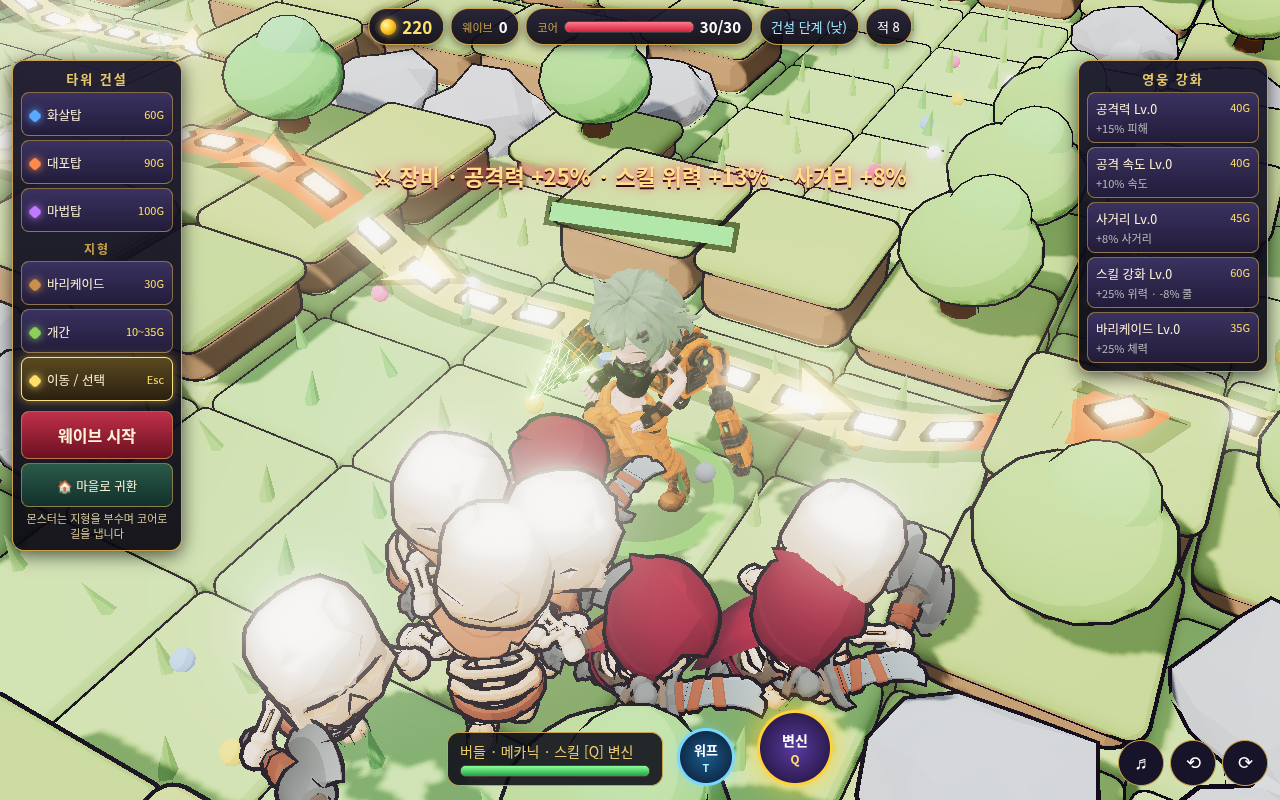
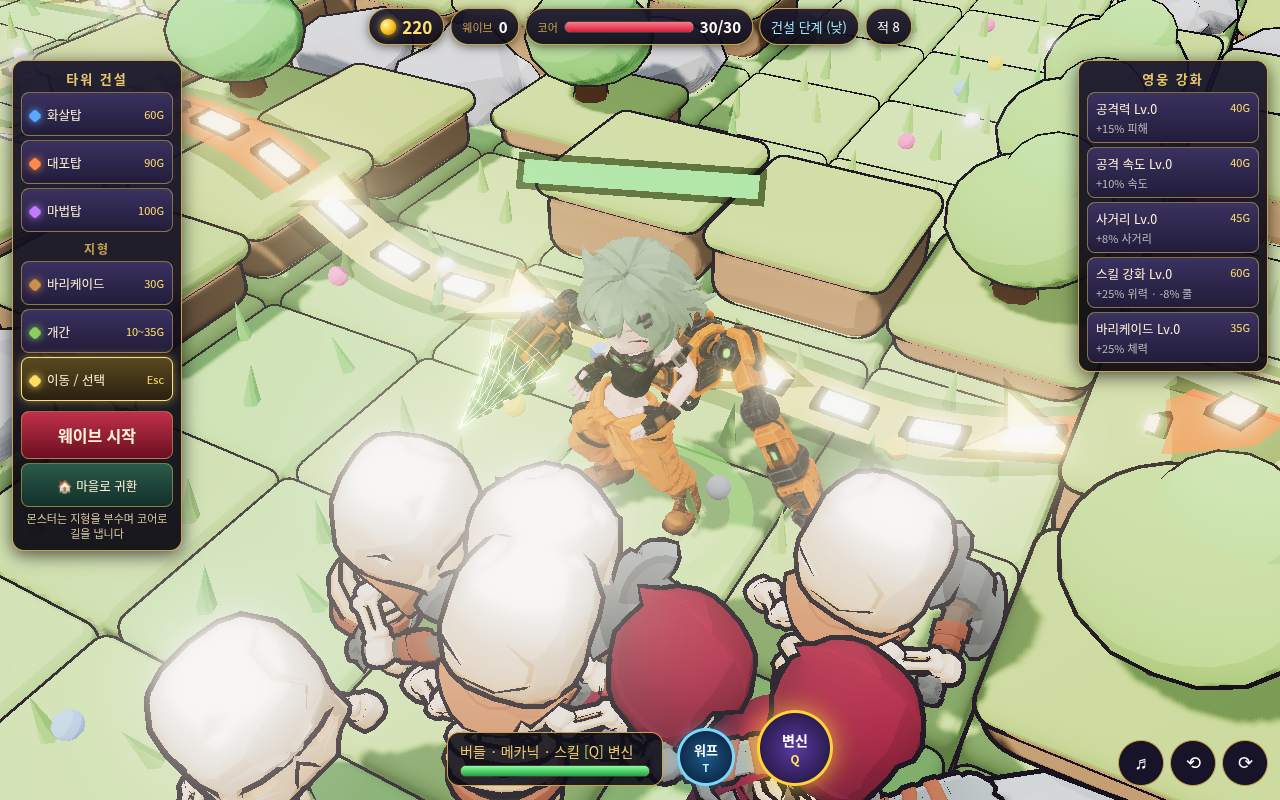
버들 스크린샷 갱신 (큰 로봇 팔): budeul_ingame(적 없이 서 있는 모습)·attack·transform·robot·shop + final_sheet(컨셉+정면/측면 시트, tests/budeul_final_sheet.py). budeul.py 51/51

diff --git a/tests/budeul_final_sheet.py b/tests/budeul_final_sheet.py
@@ -1,0 +1,21 @@
+#!/usr/bin/env python3
+"""shots/budeul/final_sheet.png = 컨셉(버들/로봇) + 콘택트 시트(정면/측면) 한 장. 먼저 budeul_sheet.py (몸, 로봇 --key mech_robot_meshy) 실행."""
+import json, os
+from PIL import Image, ImageDraw, ImageFont
+D = 'shots/budeul/sheets'; CON = os.environ.get('CONCEPT_DIR', '/workspace/mechanic3d'); COLW = 1200; PAD = 16
+F = ImageFont.truetype('/usr/share/fonts/opentype/noto/NotoSansCJK-Bold.ttc', 26); f2 = ImageFont.truetype('/usr/share/fonts/opentype/noto/NotoSansCJK-Bold.ttc', 20)
+fit = lambda im, w: im.resize((w, round(im.height * w / im.width)))
+cols = []
+for name, con, key in [('버들 (메카닉) — 컨셉 / 정면 / 측면', 'concept_budeul.jpg', 'budeul'), ('변신 로봇 — 컨셉 / 정면 / 측면', 'concept_robot.jpg', 'robot')]:
+    parts = [fit(Image.open(f'{CON}/{con}').convert('RGB'), COLW) if os.path.exists(f'{CON}/{con}') else Image.new('RGB', (COLW, 10))]
+    parts += [fit(Image.open(f'{D}/{key}_{v}.png').convert('RGB'), COLW) for v in ('front', 'side')]
+    cols.append((name, parts))
+H = max(48 + sum(p.height + PAD for p in ps) for _, ps in cols) + 60
+S = Image.new('RGB', (COLW * 2 + PAD * 3, H), (20, 16, 30)); d = ImageDraw.Draw(S)
+for i, (name, ps) in enumerate(cols):
+    x = PAD + i * (COLW + PAD); d.text((x, 8), name, font=F, fill=(255, 230, 160)); y = 48
+    for p in ps: S.paste(p, (x, y)); y += p.height + PAD
+b = json.load(open(f'{D}/body.json'))['clips']; r = json.load(open(f'{D}/robot.json'))['clips']; hd = {}
+txt = (f"뼈 길이 변화 {max(m['bone'] for m in b.values()):.2f}% · 로봇 팔/백팩 = 강체 메시(Spine02 고정, 변형 없음) · 몸 단일 뼈 변 최대 변형 {max(m['rigidMax'] for m in b.values()):.3f}% · "
+       f"로봇 부품 내부 변 최대 변형 {max(m['rigidMax'] for m in r.values()):.3f}% (강체변 {list(r.values())[0]['hard']}%) · 로봇 뼈 길이 변화 {max(m['bone'] for m in r.values()):.2f}%")
+d.text((PAD, H - 44), txt, font=f2, fill=(200, 200, 220)); S.save('shots/budeul/final_sheet.png'); print('final_sheet', S.size)

diff --git a/tests/budeul.py b/tests/budeul.py
@@ -94,15 +94,16 @@ with sync_playwright() as pw:
       for(const need2 of [1,0]){ let best=null, bd=1e9; for(let c=1;c<G.GW-1;c++) for(let r=1;r<G.GH-1;r++){ const d=Math.hypot(c-G.CORE[0],r-G.CORE[1]); if(d<6||d>=bd||!ok(c,r)||(need2&&!ok(c,r+3))) continue; bd=d; best=[c,r]; }
         if(best){ const [x,z]=G.tileXZ(best[0],best[1]); G.hero.g.position.set(x,0,z); G.hero.path=[]; G.hero.face=0; G.hero.g.rotation.y=0; return [...best, need2]; } } return null; }""")
     print('spot', spot)
+    J(pg, "()=>G.sim(.6)"); i0 = frame(pg, 'budeul_ingame', 8, .35)  # 적 없이 서 있는 모습 (깨끗한 스크린샷)
     J(pg, "()=>{ G.manual=true; G.legendSeed(7); G.legendN={}; G.legendDmg=0; G.hero.C={...G.hero.C, armor:1}; }")
     J(pg, PACK, [8, 2.2]); J(pg, FACE); J(pg, SNAP); h0 = J(pg, HPB); n0 = J(pg, "()=>({...G.mechN})")
-    J(pg, "()=>G.sim(.35)"); a1 = frame(pg, 'budeul_attack', 11, .5)
+    J(pg, "()=>G.sim(.35)"); a1 = frame(pg, 'budeul_attack', 9, .5)
     for _ in range(8): J(pg, "()=>G.sim(.25)")
     n1 = J(pg, "()=>G.mechN")
     ok('drill_and_hammer', n1['drill'] > n0['drill'] and n1['hammer'] > n0['hammer'] and n1['drillHits'] >= 3, n1)
     ok('attacks_damage', J(pg, HPB) > h0, (h0, J(pg, HPB)))
     ok('hammer_knockback', n1['knock'] > n0['knock'])
-    i0 = frame(pg, 'budeul_ingame', 13, .35); ok('not_black_ingame', i0 > 25 and a1 > 25, (i0, a1))
+    i1 = frame(pg, None, 13, .35); ok('not_black_ingame', i0 > 25 and a1 > 25 and i1 > 25, (i0, a1, i1))
     for _ in range(60):
         if J(pg, "()=>G.legendN['overdrill']||0"): break
         J(pg, "()=>G.sim(.25)")
